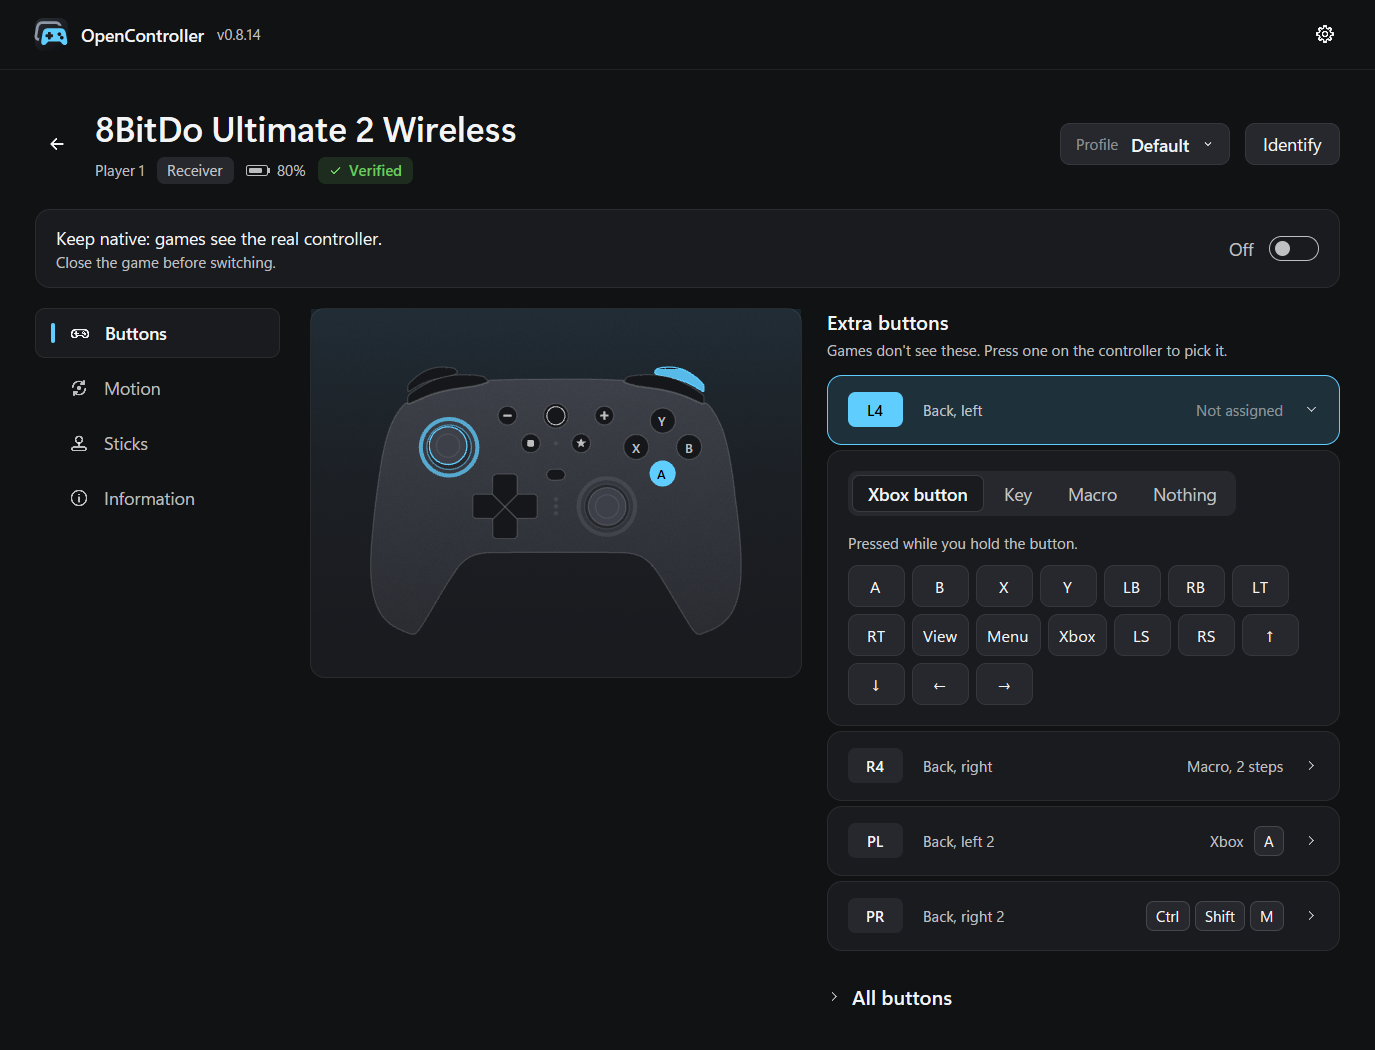
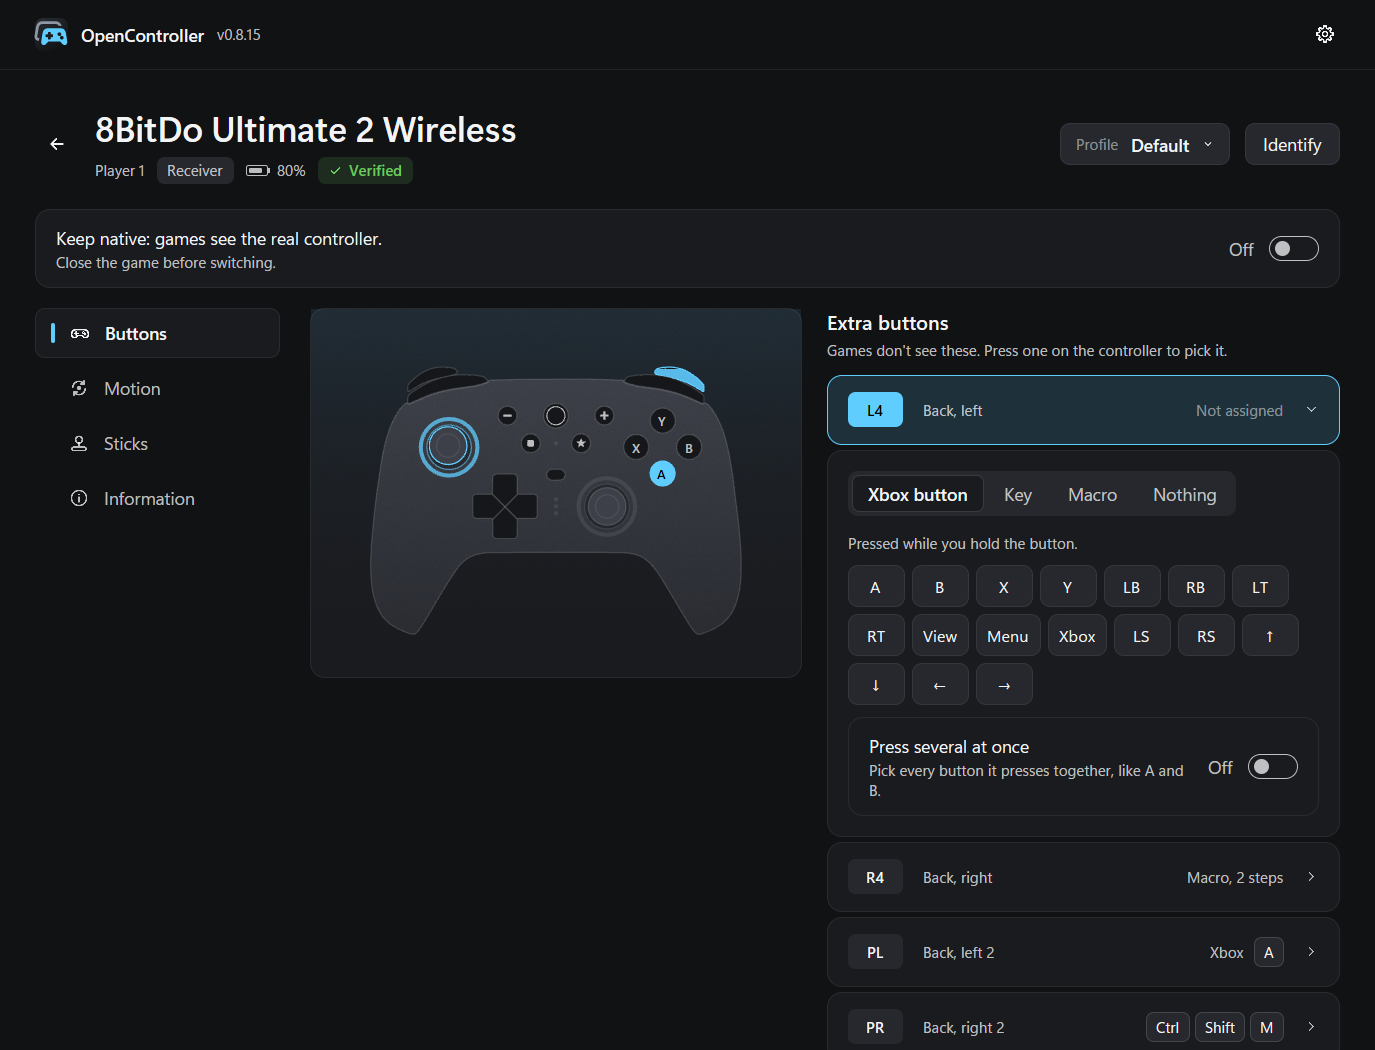
Release 0.8.15

Changed region(s): [[0.6109, 0.7924, 0.7331, 1.0], [0.8247, 0.7924, 0.9469, 1.0], [0.6109, 0.701, 0.9469, 0.7619]]

diff --git a/README.md b/README.md
@@ -7,14 +7,14 @@ version for macOS. Every controller connected to the computer becomes an Xbox co
 understand: a DualSense on Bluetooth, a Switch Pro
 Controller on a cable and a DualShock 4 on Sony's receiver, all at once, each as its own player.
 There is nothing to map. The buttons an Xbox controller lacks (back paddles, L4 and R4, Capture,
-the touchpad) can press an Xbox button, hold a key or type a macro instead, and a controller with a
+the touchpad) can press Xbox buttons, hold a key or play a macro instead, and a controller with a
 gyro can aim by turning it.
 
 It works with the several hundred controllers SDL knows and keeps out of the way: a resident process of 3.2 MB that adds about 0.6 ms between the
 controller and the game. Xbox controllers are left alone, since games already read them. The
 window is a separate program that only exists while it is open.
 
-OpenController is open source (MIT) and in beta, at version 0.8.14. With so many controllers out
+OpenController is open source (MIT) and in beta, at version 0.8.15. With so many controllers out
 there, some will not work as they should yet and some features are still missing, so every report
 helps. If your controller is not recognised, a button does nothing or anything else goes wrong,
 feel free to [open an issue](https://github.com/Brunovncs/OpenController/issues); see
@@ -32,8 +32,8 @@ with its SHA-256 next to it.
 
 ### Windows
 
-Download `open-controller-0.8.14-windows-x64-setup.exe` (on an ARM PC,
-`open-controller-0.8.14-windows-arm64-setup.exe`) and run it. It installs for your user only,
+Download `open-controller-0.8.15-windows-x64-setup.exe` (on an ARM PC,
+`open-controller-0.8.15-windows-arm64-setup.exe`) and run it. It installs for your user only,
 without administrator rights, adds OpenController to the Start menu and to Apps in Settings
 (where it uninstalls), and starts it. Run it again over an existing installation, or let the app
 do it, and it updates in place: the running copy quits first, and your settings, kept in
@@ -41,8 +41,8 @@ do it, and it updates in place: the running copy quits first, and your settings,
 too. The installer is not code-signed, so
 SmartScreen warns the first time ("More info", then "Run anyway").
 
-To run it without installing, download `open-controller-0.8.14-windows-x64.zip` (or
-`open-controller-0.8.14-windows-arm64.zip`), extract it anywhere and run `open-controller.exe`.
+To run it without installing, download `open-controller-0.8.15-windows-x64.zip` (or
+`open-controller-0.8.15-windows-arm64.zip`), extract it anywhere and run `open-controller.exe`.
 The programs are not code-signed yet, so Windows SmartScreen warns on the first start ("More info", then "Run anyway"). Neither the app nor its installation needs administrator
 rights.
 
@@ -74,7 +74,7 @@ Windows" and "Quit". Closing the window does not stop anything.
 
 ### Linux
 
-Download `open-controller-0.8.14-linux-x64.tar.gz` (or `open-controller-0.8.14-linux-arm64.tar.gz`),
+Download `open-controller-0.8.15-linux-x64.tar.gz` (or `open-controller-0.8.15-linux-arm64.tar.gz`),
 extract it and run `./install.sh`. The programs are built on Ubuntu 22.04 and need glibc 2.35 or
 newer, as in Ubuntu 22.04, Debian 12 and Fedora 36 and later; `ldd --version` shows yours.
 
@@ -103,7 +103,7 @@ controller keeps moving the pointer, as it does without OpenController.
 
 ### macOS
 
-Download `open-controller-0.8.14-macos-universal.zip`, which runs on Apple silicon and Intel, and
+Download `open-controller-0.8.15-macos-universal.zip`, which runs on Apple silicon and Intel, and
 move OpenController to Applications. It is not notarised, so macOS refuses to open it the first
 time. Open it once, then go to System Settings, Privacy & Security, and click Open Anyway.
 
@@ -170,11 +170,13 @@ Buttons an Xbox controller does not have never reach games through a virtual Xbo
 they are free to do something else. Each one, named as on the controller (L4, PL, Fn, Capture,
 Mic), can be:
 
-- an **Xbox button**, pressed while you hold it, like the paddles of an Elite controller;
+- an **Xbox button**, pressed while you hold it, like the paddles of an Elite controller, or
+  several pressed together, like A and B, with Press several at once;
 - a **key or shortcut**, held while you hold it: press it to record it, or pick one you cannot
   press, such as F13 to F24 or the media keys;
-- a **macro**: keys typed once per press, recorded with the gaps you left between them, which can
-  be edited afterwards;
+- a **macro**: keys and Xbox buttons played once per press, recorded with the gaps you left
+  between them, which can be edited afterwards. While it records, keys come from the keyboard and
+  Xbox buttons from the controller, the ones pressed together as one step;
 - nothing, which is where every button starts.
 
 Some games, online ones with anti-cheat above all, do not allow macros or automated input. Check a
@@ -297,7 +299,7 @@ can be added.
 | DualShock 4 (both versions) | yes | yes | Sony USB wireless adaptor | touchpad click |
 | DualSense, Access controller | yes | yes | | mic, touchpad click |
 | DualSense Edge | yes | yes | | back buttons, Fn buttons, mic, touchpad click |
-| DualShock 3, Sixaxis | with DsHidMini | with DsHidMini and BthPS3 | | none, but its pressure-sensitive buttons can move the triggers |
+| DualShock 3, Sixaxis | with DsHidMini | with DsHidMini and BthPS3 | | none, but its pressure-sensitive buttons can move the triggers and a stick |
 | PlayStation and PlayStation 2 pads | through USB adapters | | | none |
 | Switch Pro Controller and licensed pads | yes | yes | | Capture |
 | Joy-Con (pair or single) | | yes | | Capture, SL and SR; on its own, held sideways, L and ZL or R and ZR |
@@ -317,7 +319,8 @@ can be added.
 Light bars and player lights show the player number. Windows has no driver for the DualShock 3:
 with Nefarius' DsHidMini set to its SXS mode, OpenController reads it over USB, and BthPS3 adds
 Bluetooth once it has been paired by cable. In that mode its pressure-sensitive buttons can move
-the triggers, as in PlayStation 2 and 3 racing games, and its gyro aims, with tilting up and down
+the triggers, as in PlayStation 2 and 3 racing games, its d-pad can move a stick as hard as it is
+pressed, and its gyro aims, with tilting up and down
 taken from its accelerometer since the gyro only turns sideways. Both are experimental and were
 written without a DualShock 3 at hand, so reports from one help. Valve's controllers are taken by Steam while it runs,
 and a Flydigi pad's extra buttons need "Allow third-party apps to take over mappings" in Flydigi

diff --git a/CHANGELOG.md b/CHANGELOG.md
@@ -3,7 +3,7 @@
 Each release's section here is its release notes on GitHub. It says what changed for someone who
 plays with OpenController, and whether settings carry over.
 
-## Unreleased
+## 0.8.15
 
 A button can now press several Xbox buttons at once, like A and B together. Turn on Press several
 at once under Xbox button and pick them.
